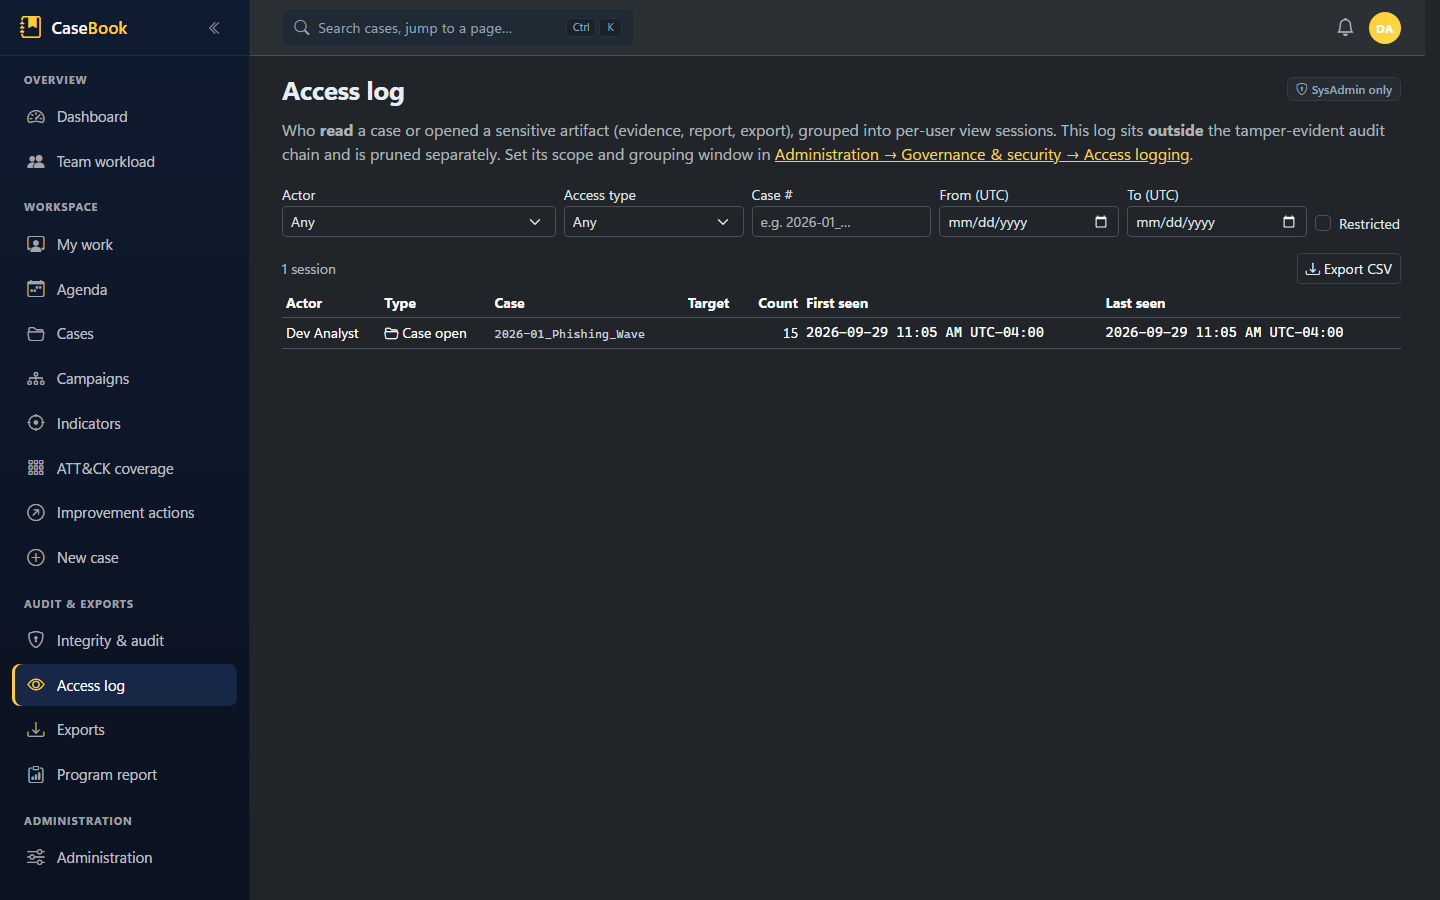
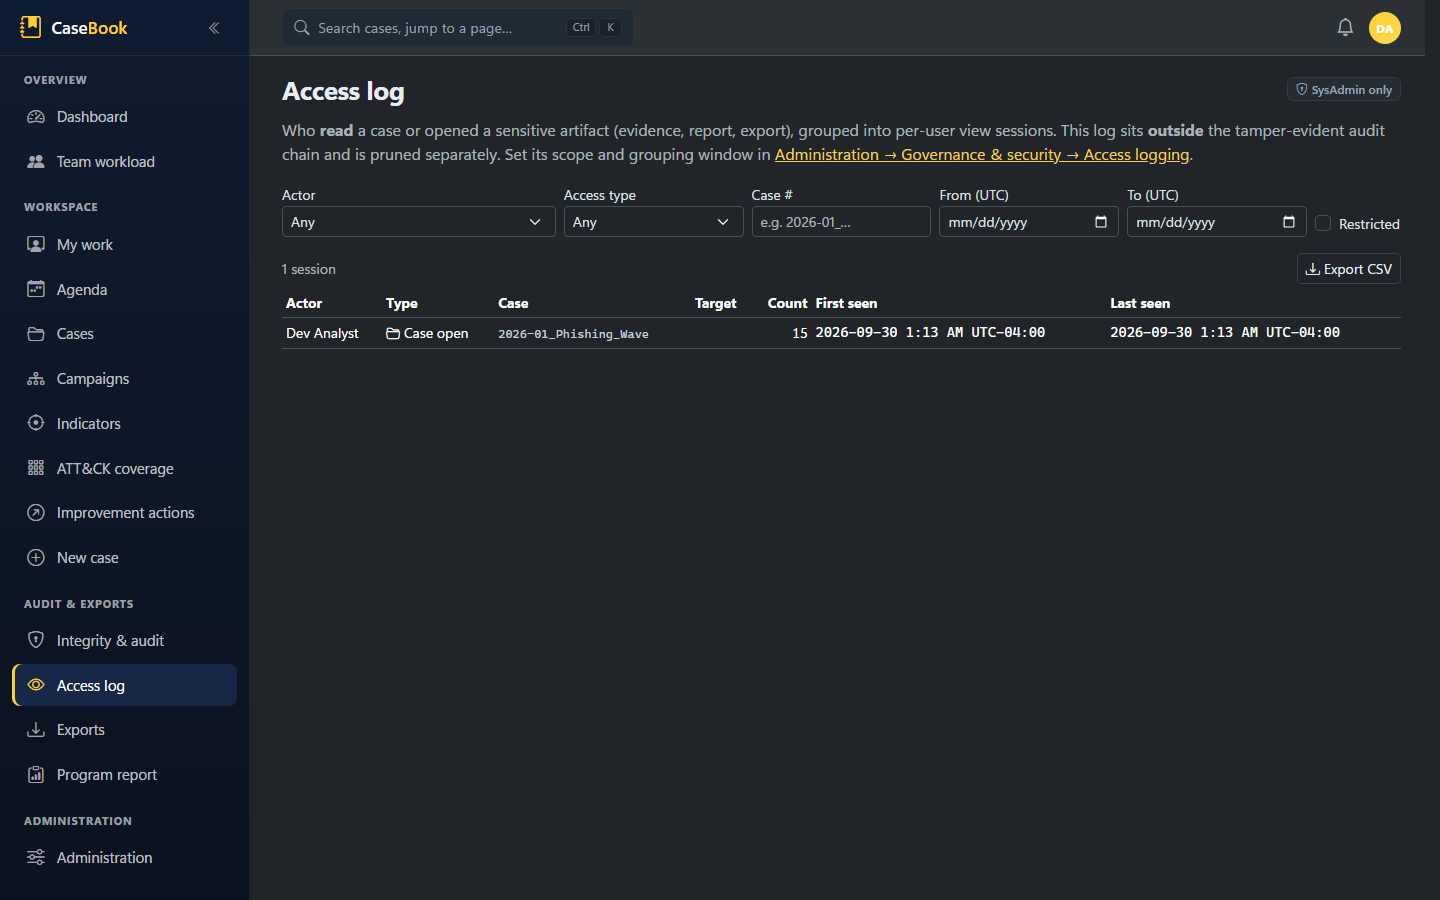
INV-35: the demo seed shows the whole model; README screenshots refreshed
The seeded case had no evidence, so neither the screenshots nor a first
look showed citations, and Jane Doe stayed Unknown while the brief said
her credentials were used.

A demo-only step (SeedModelShowcaseAsync; InitializeAsync now takes the
optional evidence store from startup) adds, on the phishing case: a
sign-in export stored as evidence with its custody record, cited by the
mailbox-review entry and by the brief's Known (a new brief version, still
before the materiality decision, so the brief shows the record has moved
on); Jane Doe's account marked Compromised and pinned; and an entry
recorded the morning after it happened, with its "recorded later" marker.
Tests that seed the base cases are unaffected.

All 23 README screenshots are recaptured from a fresh seed (H-10).

diff --git a/src/IncidentManager.Infrastructure/Persistence/DevDataSeeder.cs b/src/IncidentManager.Infrastructure/Persistence/DevDataSeeder.cs
@@ -15,7 +15,9 @@ namespace IncidentManager.Infrastructure.Persistence;
 /// </summary>
 public static class DevDataSeeder
 {
-    public static async Task InitializeAsync(AppDbContext db, IClock clock, bool seedDemoData, CancellationToken ct = default)
+    /// <param name="evidence">INV-35: where the demo's evidence file is stored; without one the demo has no evidence.</param>
+    public static async Task InitializeAsync(AppDbContext db, IClock clock, bool seedDemoData, CancellationToken ct = default,
+        IEvidenceStore? evidence = null)
     {
         await db.Database.MigrateAsync(ct);
 
@@ -50,6 +52,80 @@ public static class DevDataSeeder
         // discussion on the demo cases so they are visible in the app and README screenshots. Demo-only (not
         // in SeedAsync), so tests that seed the base cases are unaffected.
         await SeedComplianceShowcaseAsync(db, clock, ct);
+        // INV-35: the rest of the investigation model on the phishing case (a cited evidence file, a pinned
+        // compromised account, an entry recorded after the fact), so a first look shows how they fit together.
+        await SeedModelShowcaseAsync(db, clock, evidence, ct);
+    }
+
+    /// <summary>
+    /// INV-35 (demo only): on the phishing case, a sign-in export stored as evidence (with its custody record), cited
+    /// by the entry it supports and by the brief's "Known"; Jane Doe's account marked Compromised and pinned; and an
+    /// investigation entry recorded well after it happened, so the timeline shows its "recorded later" marker.
+    /// </summary>
+    public static async Task SeedModelShowcaseAsync(AppDbContext db, IClock clock, IEvidenceStore? store, CancellationToken ct = default)
+    {
+        var now = clock.UtcNow;
+        var c = await db.Cases
+            .Include(x => x.Entities).Include(x => x.TimelineEntries).Include(x => x.Briefs)
+            .Include(x => x.Evidence).Include(x => x.Citations).Include(x => x.ActionItems)
+            .AsSplitQuery()
+            .FirstOrDefaultAsync(x => x.CaseNumber == "2026-01_Phishing_Wave", ct);
+        if (c is null) return;
+
+        var jane = c.Entities.FirstOrDefault(e => e.Value == "CONTOSO\\jdoe");
+        var asn = c.Entities.FirstOrDefault(e => e.Value == "203.0.113.66");
+        if (jane is not null)
+        {
+            c.EditEntity(jane.Id, jane.Type, jane.Value, jane.Label, EntityDisposition.Compromised, jane.Description, jane.Source,
+                "analyst1", now.AddDays(-4).AddHours(-3));
+            c.SetEntityPinned(jane.Id, true, "analyst1", now.AddDays(-4).AddHours(-3));
+        }
+
+        // Entered the morning after it happened (containment work written up later), so it's marked as recorded later.
+        c.TimelineEntries.Add(new TimelineEntry
+        {
+            CaseId = c.Id, Kind = TimelineKind.Investigation, Type = TimelineEntryType.Analysis,
+            OccurredAtUtc = now.AddDays(-5).AddHours(4),
+            Description = "Blocked the 12 look-alike sender domains at the mail gateway; no further deliveries after this.",
+            Source = "analyst1", CreatedBy = "analyst1", CreatedAtUtc = now.AddDays(-4).AddHours(3)
+        });
+
+        if (store is not null)
+        {
+            var csv = "timestamp_utc,user,source_ip,asn,result\n"
+                + $"{now.AddDays(-5).AddHours(-3):yyyy-MM-ddTHH:mm:ssZ},jdoe@contoso-insurance.example,203.0.113.66,AS64500,Success\n"
+                + $"{now.AddDays(-5).AddHours(-2):yyyy-MM-ddTHH:mm:ssZ},jdoe@contoso-insurance.example,203.0.113.66,AS64500,Success\n"
+                + $"{now.AddDays(-5).AddHours(-1):yyyy-MM-ddTHH:mm:ssZ},mgarcia@contoso-insurance.example,198.51.100.23,AS64511,Failure\n";
+            await using var content = new MemoryStream(System.Text.Encoding.UTF8.GetBytes(csv));
+            var stored = await store.SaveAsync(c.Id, content, ct);
+            var ev = new Evidence
+            {
+                CaseId = c.Id, OriginalFileName = "signin-export-jdoe.csv", ContentType = "text/csv",
+                SizeBytes = stored.SizeBytes, Sha256 = stored.Sha256, StoragePath = stored.StoragePath,
+                Description = "Entra ID sign-in export for the affected users (demo data).",
+                CreatedBy = "analyst1", CreatedAtUtc = now.AddDays(-5).AddHours(1)
+            };
+            ev.CustodyEvents.Add(new ChainOfCustodyEvent
+            {
+                EvidenceId = ev.Id, AtUtc = ev.CreatedAtUtc, Actor = "analyst1",
+                Action = "Uploaded", Details = $"{stored.SizeBytes} bytes; sha256={stored.Sha256}"
+            });
+            c.Evidence.Add(ev);
+
+            var review = c.TimelineEntries.FirstOrDefault(t => t.IsCurrent && t.Description.StartsWith("Reviewed mailbox audit logs"));
+            if (review is not null) c.SetCitations(review.Id, [ev.Id], "analyst1", now.AddDays(-5).AddHours(2));
+
+            // The brief's "Known" cites it (a new version, still before the materiality decision, so the brief shows
+            // that the record has moved on since).
+            if (c.Briefs.FirstOrDefault(b => b.IsCurrent) is { } brief && asn is not null)
+            {
+                var known = $"- Session from [Foreign ASN egress](entity:{asn.Id}) the day after the click [signin-export-jdoe.csv](evidence:{ev.Id})\n"
+                    + "- About 1,450 NY and NJ residents in the opened attachments";
+                c.ReviseBrief(brief.Summary, brief.WorkingAssessment, known, brief.OpenQuestions, brief.NextSteps,
+                    "analyst1", now.AddDays(-1).AddHours(-6));
+            }
+        }
+        await db.SaveChangesAsync(ct);
     }
 
     /// <summary>

diff --git a/src/IncidentManager.Web/Program.cs b/src/IncidentManager.Web/Program.cs
@@ -272,7 +272,8 @@ using (var scope = app.Services.CreateScope())
 {
     var db = scope.ServiceProvider.GetRequiredService<AppDbContext>();
     var clock = scope.ServiceProvider.GetRequiredService<IClock>();
-    await DevDataSeeder.InitializeAsync(db, clock, seedDemoData: app.Environment.IsDevelopment());
+    await DevDataSeeder.InitializeAsync(db, clock, seedDemoData: app.Environment.IsDevelopment(),
+        evidence: scope.ServiceProvider.GetService<IEvidenceStore>());
 
     // Seed system roles (from code) and migrate the file-based AD mapping into the DB on first run,
     // then prime the in-memory role directory so authentication resolves permissions immediately.
